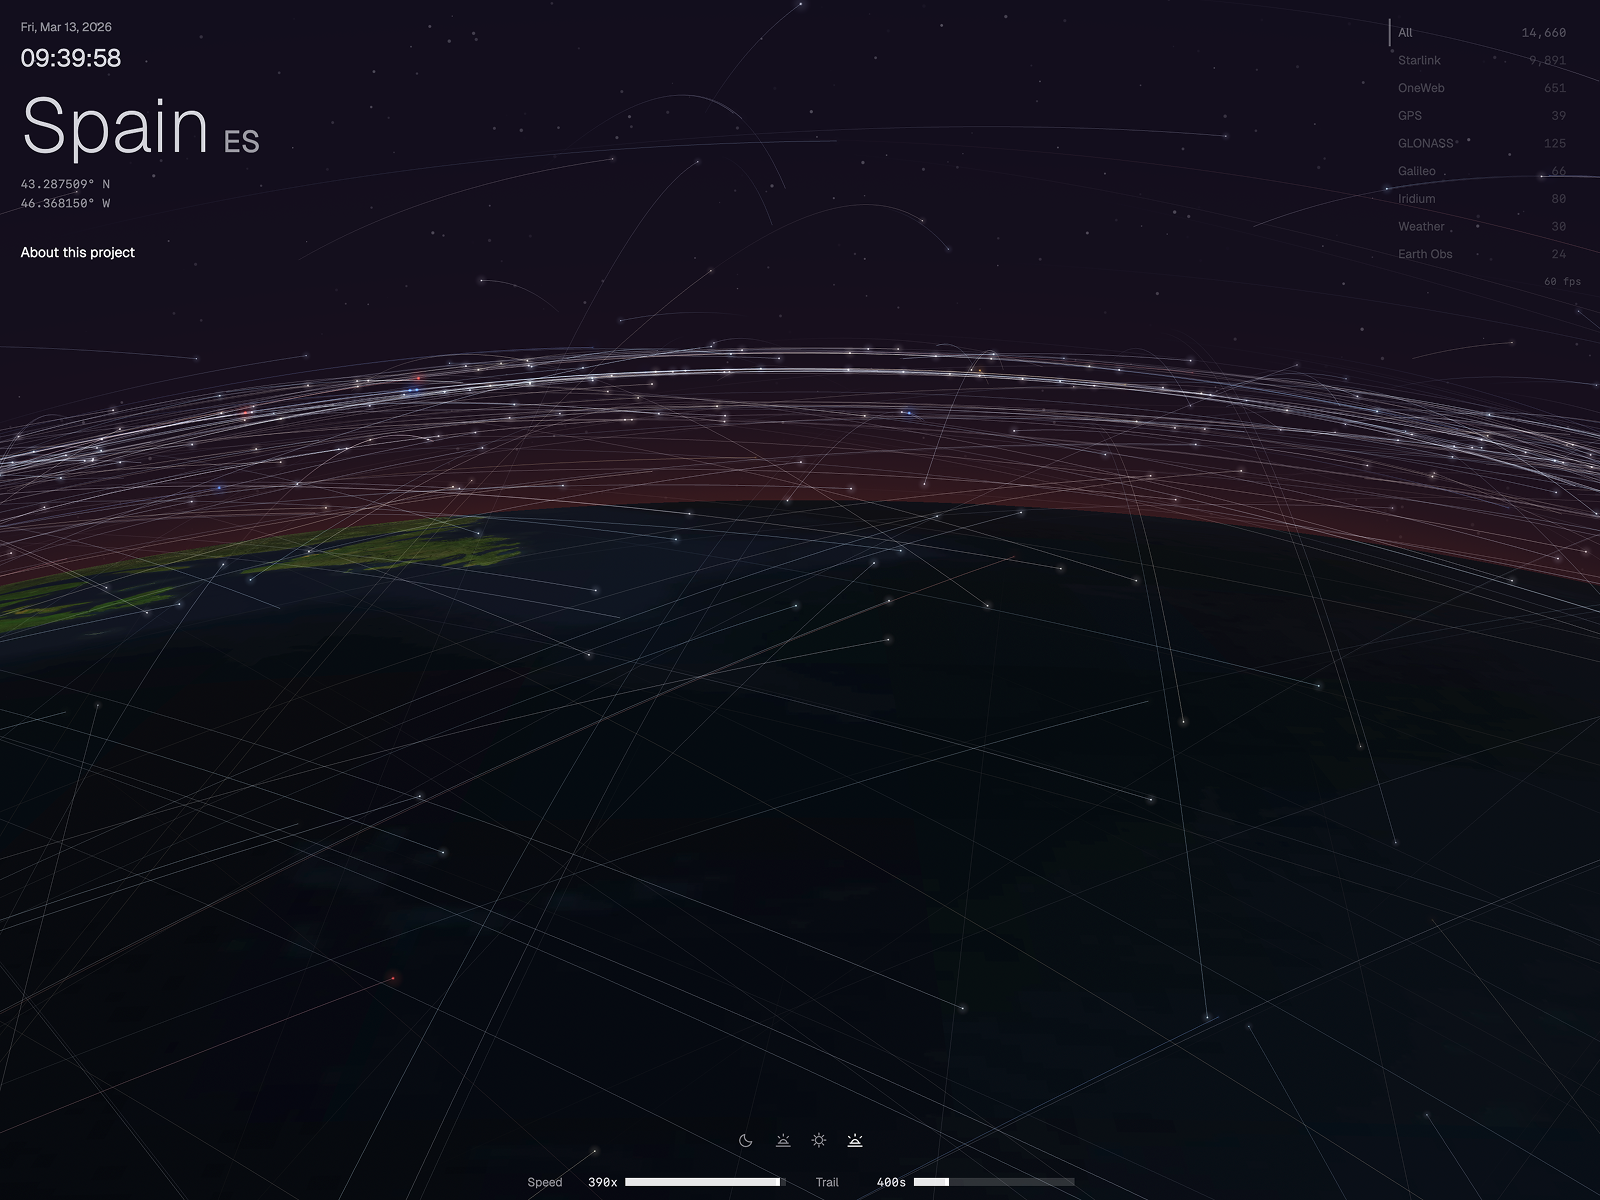
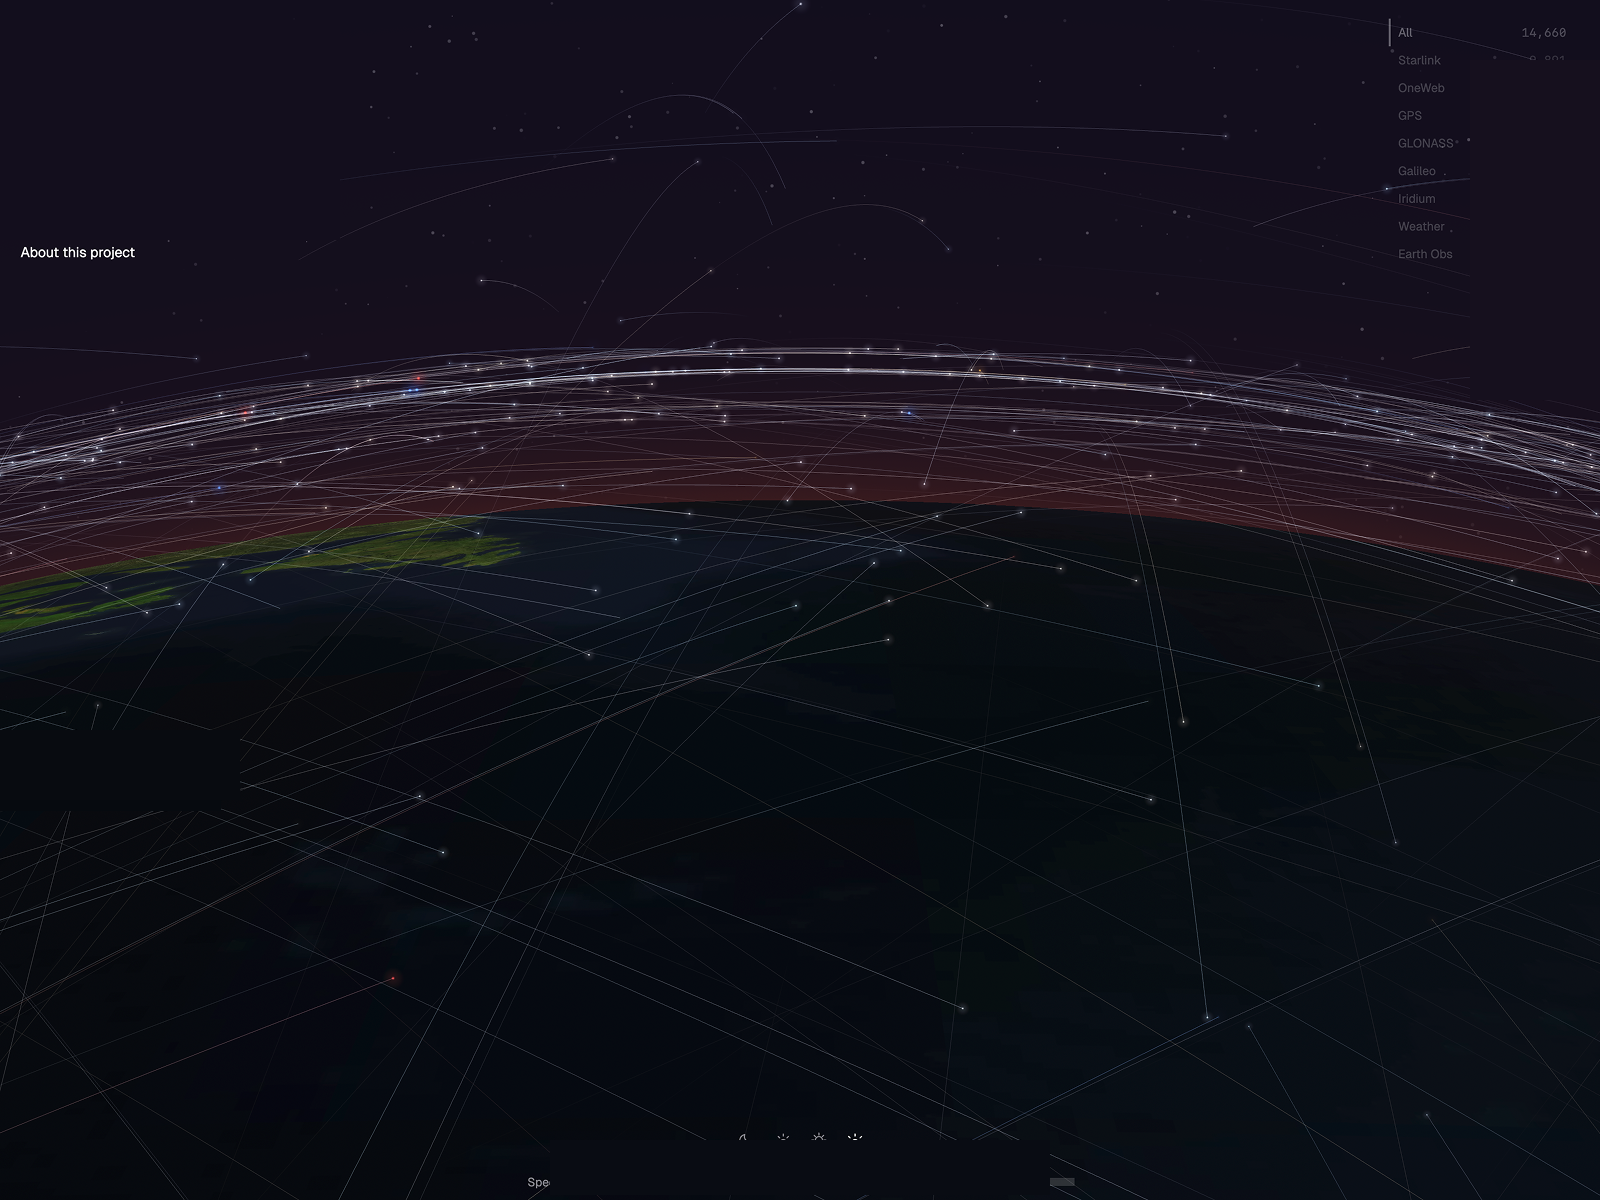
feat: 2.5x larger data text + CSS cover for bg image text overlays
- Session titles: text-sm → text-2xl across Dashboard, Timeline, Projects, Search
- Summaries: text-xs → text-lg
- Topics/badges: text-[9px] → text-base
- Token/duration metadata: text-xs → text-xl/text-lg
- Cover 'About this project' and other image UI text with radial dark gradient in CSS
- Partial image cleanup via Python PIL paint-over

diff --git a/projects/AIObservabilityPlatform/frontend/src/components/ProjectsView.jsx b/projects/AIObservabilityPlatform/frontend/src/components/ProjectsView.jsx
@@ -94,27 +94,27 @@ export default function ProjectsView({ days }) {
                           style={{ borderLeft:`2px solid ${color}30` }}>
                           <div className="flex items-start justify-between gap-5">
                             <div className="flex-1 min-w-0">
-                              <h4 className="text-sm font-bold text-slate-200 truncate">{session.title||'Untitled'}</h4>
-                              {session.summary && <p className="text-xs text-slate-600 mt-1 line-clamp-2">{session.summary}</p>}
-                              <div className="flex flex-wrap gap-1.5 mt-2.5">
+                              <h4 className="text-2xl font-bold text-slate-200">{session.title||'Untitled'}</h4>
+                              {session.summary && <p className="text-lg text-slate-500 mt-1.5 line-clamp-2">{session.summary}</p>}
+                              <div className="flex flex-wrap gap-2 mt-3">
                                 {(session.topics||[]).slice(0,5).map(t => (
-                                  <span key={t} className="flex items-center gap-1 text-[10px] font-semibold px-2 py-0.5 rounded-full text-slate-400"
+                                  <span key={t} className="flex items-center gap-1.5 text-base font-semibold px-3 py-1 rounded-full text-slate-300"
                                     style={{ background:'rgba(255,255,255,0.06)', border:'1px solid rgba(255,255,255,0.08)' }}>
-                                    <Tag style={{width:9,height:9}} />{t}
+                                    <Tag style={{width:12,height:12}} />{t}
                                   </span>
                                 ))}
                               </div>
                             </div>
-                            <div className="shrink-0 text-right space-y-1.5">
-                              <div className="flex items-center gap-1.5 justify-end">
-                                <Zap style={{width:13,height:13,color:'#fbbf24'}} />
-                                <span className="text-xs font-bold text-amber-400">{(session.tokens_used||0).toLocaleString()}</span>
+                            <div className="shrink-0 text-right space-y-2">
+                              <div className="flex items-center gap-2 justify-end">
+                                <Zap style={{width:18,height:18,color:'#fbbf24'}} />
+                                <span className="text-xl font-bold text-amber-400">{(session.tokens_used||0).toLocaleString()}</span>
                               </div>
-                              <div className="flex items-center gap-1.5 justify-end text-slate-600">
-                                <Clock style={{width:12,height:12}} />
-                                <span className="text-xs font-semibold">{session.duration_minutes}m</span>
+                              <div className="flex items-center gap-2 justify-end text-slate-500">
+                                <Clock style={{width:16,height:16}} />
+                                <span className="text-lg font-semibold">{session.duration_minutes}m</span>
                               </div>
-                              <p className="text-[10px] font-semibold text-slate-600">{session.timestamp?.slice(0,10)}</p>
+                              <p className="text-base font-semibold text-slate-500">{session.timestamp?.slice(0,10)}</p>
                             </div>
                           </div>
                         </motion.div>

diff --git a/projects/AIObservabilityPlatform/frontend/src/components/TimelineView.jsx b/projects/AIObservabilityPlatform/frontend/src/components/TimelineView.jsx
@@ -78,25 +78,25 @@ export default function TimelineView({ timeline, days, onDaysChange }) {
                           className="px-6 py-5 border-b border-white/[0.03] last:border-0 cursor-pointer transition-all duration-150">
                           <div className="flex items-start justify-between gap-5">
                             <div className="flex-1 min-w-0">
-                              <h3 className="text-sm font-bold text-slate-200">{event.title||'Untitled'}</h3>
-                              {event.summary && <p className="text-xs text-slate-600 mt-1 line-clamp-2">{event.summary}</p>}
-                              <div className="flex flex-wrap gap-1.5 mt-2.5">
+                              <h3 className="text-2xl font-bold text-slate-200">{event.title||'Untitled'}</h3>
+                              {event.summary && <p className="text-lg text-slate-500 mt-1.5 line-clamp-2">{event.summary}</p>}
+                              <div className="flex flex-wrap gap-2 mt-3">
                                 {(event.topics||[]).slice(0,5).map(t => (
-                                  <span key={t} className="flex items-center gap-1 text-[10px] font-semibold px-2 py-0.5 rounded-full"
+                                  <span key={t} className="flex items-center gap-1.5 text-base font-semibold px-3 py-1 rounded-full"
                                     style={{ color:'#818cf8', background:'rgba(129,140,248,0.1)', border:'1px solid rgba(129,140,248,0.18)' }}>
-                                    <Tag style={{width:9,height:9}} />{t}
+                                    <Tag style={{width:12,height:12}} />{t}
                                   </span>
                                 ))}
                               </div>
                             </div>
                             <div className="shrink-0 text-right space-y-2">
-                              <div className="flex items-center gap-1.5 justify-end">
-                                <Zap style={{width:13,height:13,color:'#fbbf24'}} />
-                                <span className="text-xs font-bold text-amber-400">{(event.tokens_used||0).toLocaleString()}</span>
+                              <div className="flex items-center gap-2 justify-end">
+                                <Zap style={{width:18,height:18,color:'#fbbf24'}} />
+                                <span className="text-xl font-bold text-amber-400">{(event.tokens_used||0).toLocaleString()}</span>
                               </div>
-                              <div className="flex items-center gap-1.5 justify-end text-slate-600">
-                                <Clock style={{width:12,height:12}} />
-                                <span className="text-xs font-semibold">{event.duration_minutes}m</span>
+                              <div className="flex items-center gap-2 justify-end text-slate-500">
+                                <Clock style={{width:16,height:16}} />
+                                <span className="text-lg font-semibold">{event.duration_minutes}m</span>
                               </div>
                             </div>
                           </div>

diff --git a/projects/AIObservabilityPlatform/frontend/src/components/SearchView.jsx b/projects/AIObservabilityPlatform/frontend/src/components/SearchView.jsx
@@ -108,27 +108,27 @@ export default function SearchView() {
                     style={{ border:'1px solid rgba(255,255,255,0.07)' }}>
                     <div className="flex items-start justify-between gap-5">
                       <div className="flex-1 min-w-0">
-                        <h3 className="text-base font-black text-white mb-1">{event.title||'Untitled'}</h3>
-                        {event.summary && <p className="text-xs text-slate-500 line-clamp-2 mb-3">{event.summary}</p>}
-                        <div className="flex flex-wrap gap-1.5">
+                        <h3 className="text-2xl font-black text-white mb-2">{event.title||'Untitled'}</h3>
+                        {event.summary && <p className="text-lg text-slate-500 line-clamp-2 mb-3">{event.summary}</p>}
+                        <div className="flex flex-wrap gap-2">
                           {(event.topics||[]).map(t => (
-                            <span key={t} className="flex items-center gap-1 text-[10px] font-semibold px-2 py-0.5 rounded-full"
+                            <span key={t} className="flex items-center gap-1.5 text-base font-semibold px-3 py-1 rounded-full"
                               style={{ color:'#818cf8', background:'rgba(129,140,248,0.1)', border:'1px solid rgba(129,140,248,0.18)' }}>
-                              <Tag style={{width:9,height:9}} />{t}
+                              <Tag style={{width:12,height:12}} />{t}
                             </span>
                           ))}
                         </div>
                       </div>
                       <div className="shrink-0 text-right">
-                        <span className="inline-block text-[10px] font-bold px-3 py-1.5 rounded-lg mb-2"
+                        <span className="inline-block text-base font-bold px-3 py-1.5 rounded-lg mb-2"
                           style={{ color:'#2dd4bf', background:'rgba(45,212,191,0.1)', border:'1px solid rgba(45,212,191,0.2)' }}>
                           {event.tool}
                         </span>
-                        <div className="flex items-center gap-1.5 justify-end">
-                          <Zap style={{width:12,height:12,color:'#fbbf24'}} />
-                          <span className="text-xs font-bold text-amber-400">{(event.tokens_used||0).toLocaleString()}</span>
+                        <div className="flex items-center gap-2 justify-end">
+                          <Zap style={{width:16,height:16,color:'#fbbf24'}} />
+                          <span className="text-xl font-bold text-amber-400">{(event.tokens_used||0).toLocaleString()}</span>
                         </div>
-                        <p className="text-[10px] font-semibold text-slate-600 mt-1.5">{event.timestamp?.slice(0,10)}</p>
+                        <p className="text-base font-semibold text-slate-500 mt-2">{event.timestamp?.slice(0,10)}</p>
                       </div>
                     </div>
                   </motion.div>

diff --git a/projects/AIObservabilityPlatform/frontend/src/components/Dashboard.jsx b/projects/AIObservabilityPlatform/frontend/src/components/Dashboard.jsx
@@ -156,26 +156,26 @@ export default function Dashboard({ timeline, days, onDaysChange }) {
               whileHover={{ backgroundColor: 'rgba(129,140,248,0.04)' }}
               className="grid grid-cols-12 gap-4 px-6 py-3.5 border-b border-white/[0.03] last:border-0 cursor-pointer transition-colors duration-150">
               <div className="col-span-5 min-w-0">
-                <p className="text-sm font-bold text-slate-200 truncate">{event.title || 'Untitled Session'}</p>
-                {event.summary && <p className="text-[11px] text-slate-600 truncate mt-0.5">{event.summary}</p>}
+                <p className="text-2xl font-bold text-slate-200">{event.title || 'Untitled Session'}</p>
+                {event.summary && <p className="text-lg text-slate-500 mt-1">{event.summary}</p>}
               </div>
-              <div className="col-span-2 flex flex-wrap gap-1 items-start pt-0.5">
+              <div className="col-span-2 flex flex-wrap gap-1.5 items-start pt-1">
                 {(event.topics||[]).slice(0,2).map(t => (
-                  <span key={t} className="text-[9px] font-bold px-1.5 py-0.5 rounded"
+                  <span key={t} className="text-base font-bold px-3 py-1 rounded"
                     style={{ background:'rgba(129,140,248,0.12)', color:'#818cf8', border:'1px solid rgba(129,140,248,0.15)' }}>{t}</span>
                 ))}
               </div>
-              <div className="col-span-2 text-center flex justify-center items-start pt-0.5">
-                <span className="flex items-center gap-1 text-[11px] font-bold px-2 py-0.5 rounded"
+              <div className="col-span-2 text-center flex justify-center items-start pt-1">
+                <span className="flex items-center gap-1.5 text-lg font-bold px-3 py-1 rounded"
                   style={{ background:'rgba(251,191,36,0.1)', color:'#fbbf24', border:'1px solid rgba(251,191,36,0.15)' }}>
-                  <Zap style={{width:10,height:10}} />{(event.tokens_used||0).toLocaleString()}
+                  <Zap style={{width:16,height:16}} />{(event.tokens_used||0).toLocaleString()}
                 </span>
               </div>
               <div className="col-span-2 text-center">
-                <span className="text-[11px] font-mono font-semibold text-slate-600">{event.duration_minutes}m</span>
+                <span className="text-lg font-mono font-semibold text-slate-500">{event.duration_minutes}m</span>
               </div>
               <div className="col-span-1 text-right">
-                <span className="text-[10px] font-mono font-semibold text-slate-700">{event.timestamp?.slice(5,10)}</span>
+                <span className="text-base font-mono font-semibold text-slate-500">{event.timestamp?.slice(5,10)}</span>
               </div>
             </motion.div>
           ))}

diff --git a/projects/AIObservabilityPlatform/frontend/src/index.css b/projects/AIObservabilityPlatform/frontend/src/index.css
@@ -14,6 +14,7 @@ html, body, #root {
   inset: 0;
   z-index: 0;
   background:
+    radial-gradient(ellipse 30% 20% at 0% 100%, rgba(5,6,18,1) 0%, transparent 100%),
     linear-gradient(to bottom, rgba(5,6,18,0.55) 0%, rgba(5,6,18,0.35) 40%, rgba(5,6,18,0.7) 100%),
     url('/bg.png') center center / cover no-repeat;
 }
